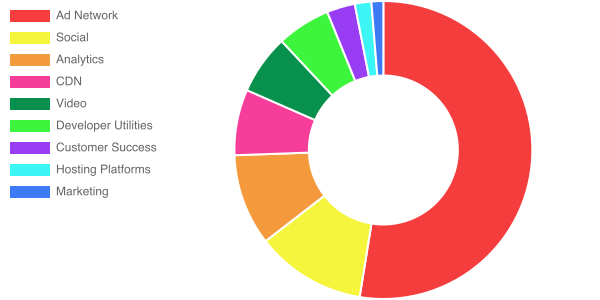
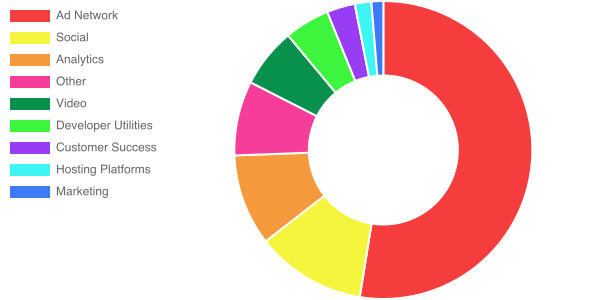
fix: category tweaks and prettier markdown

diff --git a/bin/create-markdown.js b/bin/create-markdown.js
@@ -2,6 +2,7 @@ const _ = require('lodash')
 const fs = require('fs')
 const path = require('path')
 const Chart = require('chartjs-node')
+const exec = require('child_process').execFileSync
 
 const MD_TEMPLATE = fs.readFileSync(path.join(__dirname, '../lib/template.md'), 'utf8')
 const createMarkdownString = _.template(MD_TEMPLATE)
@@ -51,14 +52,14 @@ async function createChartImages() {
 }
 
 function createCategorySection(category) {
-  const categoryRows = _
-    .sortBy(DATA_BY_CATEGORY[category.id], 'averageExecutionTime')
-    .map((entry, rank) => [
+  const categoryRows = _.sortBy(DATA_BY_CATEGORY[category.id], 'averageExecutionTime').map(
+    (entry, rank) => [
       rank + 1,
       `[${entry.name}](${entry.homepage})`,
       entry.totalOccurrences.toLocaleString(),
       Math.round(entry.averageExecutionTime) + ' ms',
-    ])
+    ],
+  )
 
   const table = createMarkdownTable(['Rank', 'Name', 'Popularity', 'Average Impact'], categoryRows)
   return [
@@ -70,14 +71,14 @@ function createCategorySection(category) {
 }
 
 async function run() {
-  const categoryTOC = _
-    .map(ALL_CATEGORIES, category => `1.  [${category.title}](#${category.id})`)
-    .join('\n         ')
+  const categoryTOC = _.map(
+    ALL_CATEGORIES,
+    category => `1.  [${category.title}](#${category.id})`,
+  ).join('\n         ')
 
   const categoryContents = _.map(ALL_CATEGORIES, createCategorySection).join('\n\n')
 
-  const allDataRows = _
-    .sortBy(ALL_DATA, 'totalOccurrences')
+  const allDataRows = _.sortBy(ALL_DATA, 'totalOccurrences')
     .reverse()
     .map(entry => [
       `[${entry.name}](${entry.homepage})`,
@@ -87,14 +88,17 @@ async function run() {
 
   await createChartImages()
 
+  const readmePath = path.join(__dirname, '../README.md')
   fs.writeFileSync(
-    path.join(__dirname, '../README.md'),
+    readmePath,
     createMarkdownString({
       category_table_of_contents: categoryTOC,
       category_contents: categoryContents,
       all_data: createMarkdownTable(['Name', 'Popularity', 'Total Impact'], allDataRows),
     }),
   )
+
+  exec(path.join(__dirname, '../node_modules/.bin/prettier'), ['--write', readmePath])
 }
 
 run().catch(console.error)

diff --git a/README.md b/README.md
@@ -15,7 +15,7 @@
         1.  [Hosting Platforms](#hosting)
         1.  [Marketing](#marketing)
         1.  [Customer Success](#customer-success)
-        1.  [CDN](#cdn)
+        1.  [Other](#other)
     1.  [Third Parties by Total Impact](#by-total-impact)
 1.  [Future Work](#future-work)
 1.  [FAQs](#faqs)
@@ -51,7 +51,7 @@ This section breaks down third parties by category. Perhaps the most important c
 
 #### Overall Breakdown
 
-Unsurprisingly, ads account for the largest chunk of third party script execution.
+Unsurprisingly, ads account for the largest chunk of third party script execution followed by social and analytics.
 
 ![breakdown by category](./by-category.png)
 
@@ -136,27 +136,24 @@ These scripts enable video player and streaming functionality.
 
 #### Developer Utilities
 
-These scripts are developer utilities (jQuery, bootstrap, Sentry, etc).
+These scripts are developer utilities (API clients, site monitoring, fraud detection, etc).
 
 | Rank | Name                                                               | Popularity | Average Impact |
 | ---- | ------------------------------------------------------------------ | ---------- | -------------- |
-| 1    | [Bootstrap CDN](https://bootstrapcdn.com/)                         | 213        | 45 ms          |
-| 2    | [New Relic](https://newrelic.com/)                                 | 373        | 59 ms          |
-| 3    | [OneSignal](https://onesignal.com/)                                | 6,420      | 93 ms          |
-| 4    | [FontAwesome](https://fontawesome.com/)                            | 1,275      | 101 ms         |
-| 5    | [App Dynamics](https://www.appdynamics.com/)                       | 397        | 108 ms         |
-| 6    | [Google APIs/SDK](https://developers.google.com/apis-explorer/#p/) | 104,190    | 125 ms         |
-| 7    | [jQuery CDN](https://code.jquery.com/)                             | 20,140     | 168 ms         |
-| 8    | [Distil Networks](https://www.distilnetworks.com/)                 | 1,745      | 298 ms         |
-| 9    | [Cloudflare SDK](https://www.cloudflare.com/website-optimization/) | 4,398      | 300 ms         |
-| 10   | [Yandex APIs](https://yandex.ru/)                                  | 3,321      | 377 ms         |
-| 11   | [Sentry](https://sentry.io/)                                       | 2,268      | 739 ms         |
+| 1    | [New Relic](https://newrelic.com/)                                 | 373        | 59 ms          |
+| 2    | [OneSignal](https://onesignal.com/)                                | 6,420      | 93 ms          |
+| 3    | [App Dynamics](https://www.appdynamics.com/)                       | 397        | 108 ms         |
+| 4    | [Google APIs/SDK](https://developers.google.com/apis-explorer/#p/) | 104,190    | 125 ms         |
+| 5    | [Distil Networks](https://www.distilnetworks.com/)                 | 1,745      | 298 ms         |
+| 6    | [Cloudflare](https://www.cloudflare.com/website-optimization/)     | 4,398      | 300 ms         |
+| 7    | [Yandex APIs](https://yandex.ru/)                                  | 3,558      | 366 ms         |
+| 8    | [Sentry](https://sentry.io/)                                       | 2,268      | 739 ms         |
 
 <a name="hosting"></a>
 
 #### Hosting Platforms
 
-These scripts are from web hosting platforms (WordPress, Wix, Squarespace, etc).
+These scripts are from web hosting platforms (WordPress, Wix, Squarespace, etc). Note that in the case of WordPress, this just indicates the libraries hosted and served by WordPress not all sites using self-hosted WordPress.
 
 | Rank | Name                                        | Popularity | Average Impact |
 | ---- | ------------------------------------------- | ---------- | -------------- |
@@ -193,19 +190,23 @@ These scripts are from customer support/marketing providers that offer chat and 
 | 5    | [Zopim](https://www.zopim.com/)          | 6,367      | 726 ms         |
 | 6    | [ZenDesk](https://zendesk.com/)          | 2,927      | 766 ms         |
 
-<a name="cdn"></a>
+<a name="other"></a>
 
-#### CDN
+#### Other
 
-These scripts are delivered via CDN. This category is unique in that the origin may have no responsibility on the performance of what's being served. Note that rank here is largely meaningless and does not imply one CDN is better than the other. It simply identifies that the scripts being served from that CDN are heavier than the ones developers use from another.
+These are miscellaneous scripts delivered via a shared CDN. This category is unique in that the origin may have no responsibility for the performance of what's being served. Note that rank here does not imply one CDN is better than the other. It simply indicates that the scripts being served from that origin are lighter/heavier than the ones served by another.
 
 | Rank | Name                                                         | Popularity | Average Impact |
 | ---- | ------------------------------------------------------------ | ---------- | -------------- |
-| 1    | [Cloudflare CDN](https://cdnjs.com/)                         | 15,088     | 192 ms         |
-| 2    | [Google CDN](https://developers.google.com/speed/libraries/) | 85,536     | 212 ms         |
-| 3    | [Amazon S3](https://aws.amazon.com/s3/)                      | 2,625      | 222 ms         |
-| 4    | [JSDelivr](https://www.jsdelivr.com/)                        | 3,537      | 351 ms         |
-| 5    | [CreateJS CDN](http://code.createjs.com/)                    | 1,685      | 2457 ms        |
+| 1    | [Bootstrap CDN](https://bootstrapcdn.com/)                   | 213        | 45 ms          |
+| 2    | [FontAwesome CDN](https://fontawesome.com/)                  | 1,275      | 101 ms         |
+| 3    | [Yandex CDN](https://yandex.ru/)                             | 311        | 167 ms         |
+| 4    | [jQuery CDN](https://code.jquery.com/)                       | 20,140     | 168 ms         |
+| 5    | [Cloudflare CDN](https://cdnjs.com/)                         | 15,088     | 192 ms         |
+| 6    | [Google CDN](https://developers.google.com/speed/libraries/) | 85,536     | 212 ms         |
+| 7    | [Amazon S3](https://aws.amazon.com/s3/)                      | 2,625      | 222 ms         |
+| 8    | [JSDelivr](https://www.jsdelivr.com/)                        | 3,537      | 351 ms         |
+| 9    | [CreateJS CDN](http://code.createjs.com/)                    | 1,685      | 2457 ms        |
 
 <a name="by-total-impact"></a>
 
@@ -243,12 +244,12 @@ These scripts are delivered via CDN. This category is unique in that the origin 
 | [Tumblr](https://tumblr.com/)                                                       | 4,717      | 1931 s       |
 | [Optimizely](https://www.optimizely.com/)                                           | 4,671      | 1384 s       |
 | [Pubmatic](https://pubmatic.com/)                                                   | 4,462      | 435 s        |
-| [Cloudflare SDK](https://www.cloudflare.com/website-optimization/)                  | 4,398      | 1320 s       |
+| [Cloudflare](https://www.cloudflare.com/website-optimization/)                      | 4,398      | 1320 s       |
 | [VK](https://vk.com/)                                                               | 4,227      | 126 s        |
 | [ShareThis](https://www.sharethis.com/)                                             | 3,746      | 1787 s       |
+| [Yandex APIs](https://yandex.ru/)                                                   | 3,558      | 1303 s       |
 | [Vimeo](http://vimeo.com/)                                                          | 3,543      | 497 s        |
 | [JSDelivr](https://www.jsdelivr.com/)                                               | 3,537      | 1243 s       |
-| [Yandex APIs](https://yandex.ru/)                                                   | 3,321      | 1253 s       |
 | [Tealium](https://tealium.com/)                                                     | 3,066      | 779 s        |
 | [ZenDesk](https://zendesk.com/)                                                     | 2,927      | 2241 s       |
 | [Parking Crew](http://parkingcrew.net/)                                             | 2,887      | 1229 s       |
@@ -277,7 +278,7 @@ These scripts are delivered via CDN. This category is unique in that the origin 
 | [Media Math](http://www.mediamath.com/)                                             | 1,523      | 1230 s       |
 | [Market GID](https://www.marketgid.com/)                                            | 1,510      | 202 s        |
 | [Mixpanel](https://mixpanel.com/)                                                   | 1,371      | 102 s        |
-| [FontAwesome](https://fontawesome.com/)                                             | 1,275      | 128 s        |
+| [FontAwesome CDN](https://fontawesome.com/)                                         | 1,275      | 128 s        |
 | [MediaVine](https://www.mediavine.com/)                                             | 1,269      | 1443 s       |
 | [Lucky Orange](https://www.luckyorange.com/)                                        | 857        | 803 s        |
 | [WordAds](https://wordads.co/)                                                      | 766        | 1516 s       |
@@ -286,6 +287,7 @@ These scripts are delivered via CDN. This category is unique in that the origin 
 | [App Dynamics](https://www.appdynamics.com/)                                        | 397        | 43 s         |
 | [New Relic](https://newrelic.com/)                                                  | 373        | 22 s         |
 | [Twitch](https://twitch.tv/)                                                        | 319        | 224 s        |
+| [Yandex CDN](https://yandex.ru/)                                                    | 311        | 52 s         |
 | [Bootstrap CDN](https://bootstrapcdn.com/)                                          | 213        | 10 s         |
 
 ## Future Work
